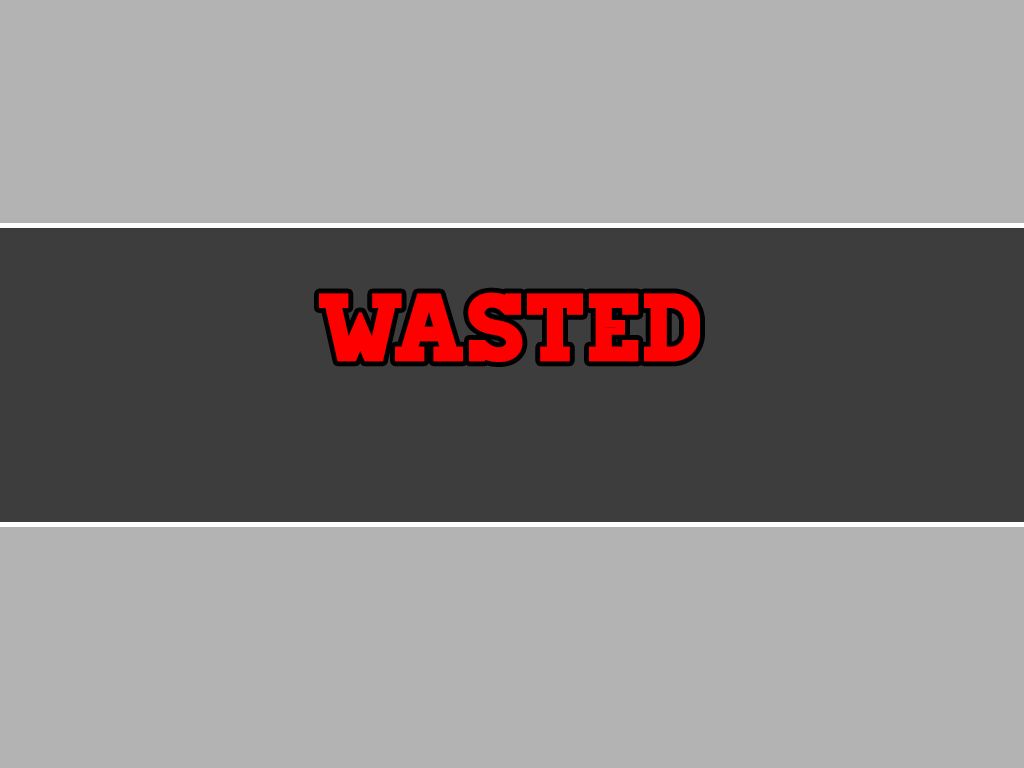
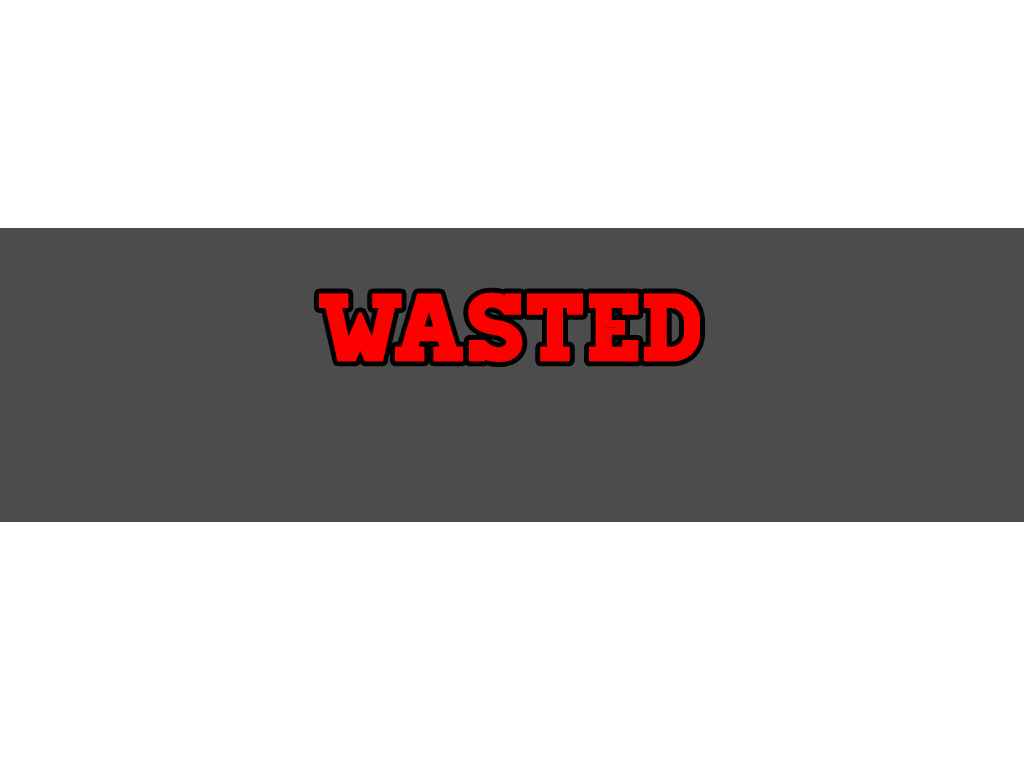
added tutorial scene

diff --git a/src/GameWindow.java b/src/GameWindow.java
@@ -1,11 +1,13 @@
 import bases.GameObject;
 import bases.inputs.InputManager;
 import bases.maps.Map;
+import bases.scenes.Scene;
 import bases.scenes.SceneManager;
 import bases.settings.Settings;
 import smithitsmiths.players.Player;
 import smithitsmiths.enemy.Enemy;
 import smithitsmiths.scenes.GamePlayScene;
+import smithitsmiths.scenes.GameTutorialScene;
 
 import java.awt.*;
 import java.awt.event.KeyEvent;
@@ -76,7 +78,7 @@ public class GameWindow extends Frame {
     private void setupLevel() {
 
         //create gamePlayScene
-        SceneManager.changeScene(new GamePlayScene());
+        SceneManager.changeScene(new GameTutorialScene());
 
     }
 
@@ -104,6 +106,13 @@ public class GameWindow extends Frame {
 
         //runAllActions gameObjects
         GameObject.runAllActions();
+
+        //test
+        if (InputManager.spaceReleased){
+            if (SceneManager.getCurrentScene().getClass().equals(GameTutorialScene.class)){
+                SceneManager.changeScene(new GamePlayScene());
+            }
+        }
 
         //out of for (gameObjects)
         SceneManager.changeSceneIfNeeded();

diff --git a/src/bases/scenes/SceneManager.java b/src/bases/scenes/SceneManager.java
@@ -13,10 +13,11 @@ public class SceneManager {
     public static void changeSceneIfNeeded() {
         //outside gameLoop
         //1. check if changeScene is needed to made
-        if (nextScene != null){
-            if (currentScene != null)
-
+        if (nextScene != null) {
+            if (currentScene != null) {
                 currentScene.deinit();
+            }
+
             nextScene.init();
             currentScene = nextScene;
 
@@ -25,5 +26,9 @@ public class SceneManager {
         }
         //2.if changeScene is needed to made => deinit - init
 
+    }
+
+    public static Scene getCurrentScene(){
+        return currentScene;
     }
 }

diff --git a/src/smithitsmiths/scenes/GameTutorialScene.java b/src/smithitsmiths/scenes/GameTutorialScene.java
@@ -1,0 +1,21 @@
+package smithitsmiths.scenes;
+
+import bases.GameObject;
+import bases.renderers.ImageRenderer;
+import bases.scenes.Scene;
+
+public class GameTutorialScene implements Scene {
+    @Override
+    public void deinit() {
+        GameObject.clearAll();
+    }
+
+    @Override
+    public void init() {
+        GameObject tutorialPNG = new GameObject();
+        tutorialPNG.renderer = ImageRenderer.create("assets/images/GUI/tutorial_1.png");
+        tutorialPNG.position.set(512,384);
+        tutorialPNG.screenPosition.set(512,384);
+        GameObject.add(tutorialPNG);
+    }
+}

diff --git a/src/smithitsmiths/scenes/GameOverScene.java b/src/smithitsmiths/scenes/GameOverScene.java
@@ -12,9 +12,11 @@ public class GameOverScene implements Scene {
 
     @Override
     public void init() {
-        GameObject background = new GameObject();
-        background.renderer = ImageRenderer.create("assets/images/background/gameover_bg.png");
-        background.position.set(512,384);
-        GameObject.add(background);
+        GameObject bg = new GameObject();
+        bg.position.set(512, 384);
+        bg.screenPosition.set(512,384);
+        bg.renderer = ImageRenderer.create("assets/images/background/gameover_bg.png");
+
+        GameObject.add(bg);
     }
 }

diff --git a/src/smithitsmiths/backgrounds/Background.java b/src/smithitsmiths/backgrounds/Background.java
@@ -7,8 +7,9 @@ import bases.renderers.ImageRenderer;
 public class Background extends GameObject {
 
     public Background(){
-        this.renderer = ImageRenderer.create("assets/images/background/blue_desert_extended.png");
+        this.renderer = ImageRenderer.create("assets/images/background/blue_desert.png");
         this.position.y = 384;                  //still unstable
+        this.position.x = 512;
     }
 
     @Override

diff --git a/src/smithitsmiths/players/Player.java b/src/smithitsmiths/players/Player.java
@@ -112,6 +112,7 @@ public class Player extends GameObject implements PhysicsBody {
         this.screenPosition.addUp(velocity);
 
         checkIfOutOfScreen();
+        //TODO : repositioning
 
         return 0;
     }

diff --git a/src/bases/GameObject.java b/src/bases/GameObject.java
@@ -12,7 +12,7 @@ import java.util.Vector;
 
 public class GameObject {
     public Vector2D position;
-    protected Vector2D screenPosition;
+    public Vector2D screenPosition;
 
     public Renderer renderer;
 
